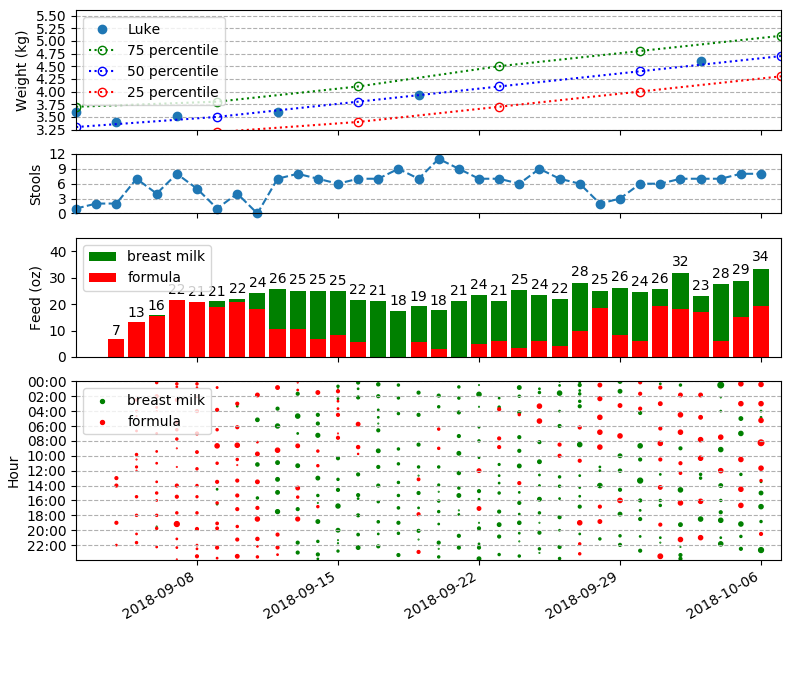
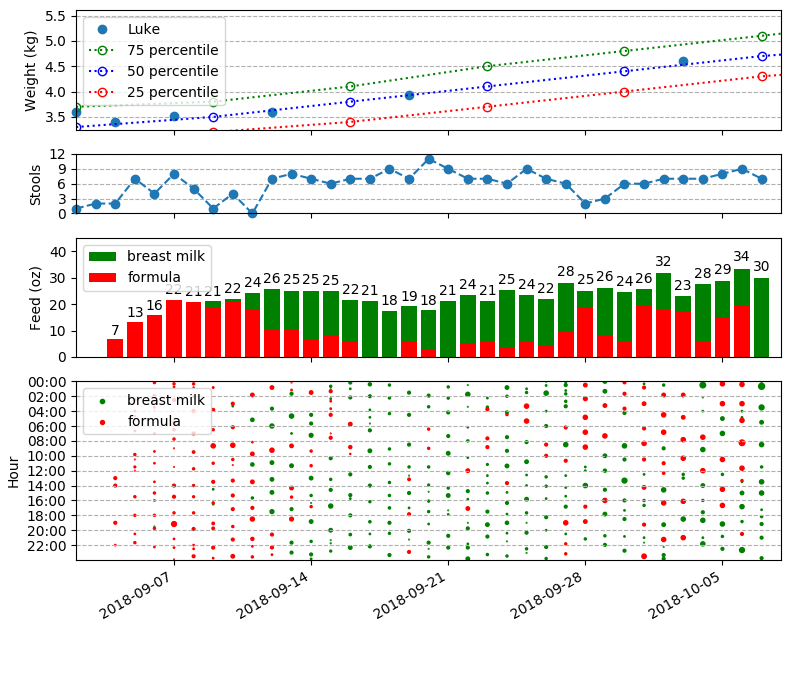
update 10.7.18

diff --git a/src/analyze.py b/src/analyze.py
@@ -54,7 +54,7 @@ ax1 = fig.add_subplot(gs[0], sharex=ax2)
 weight = df2.Weight.dropna()
 plt.plot(weight.index.date, weight.values, 'o', clip_on=False, label='Luke')
 plt.ylabel('Weight (kg)')
-utils.set_y_major(0.25)
+utils.set_y_major(0.5)
 ax1.grid(True, axis='y', linestyle='--')
 plt.ylim([3.25, max(weight.values) + 1])
 
